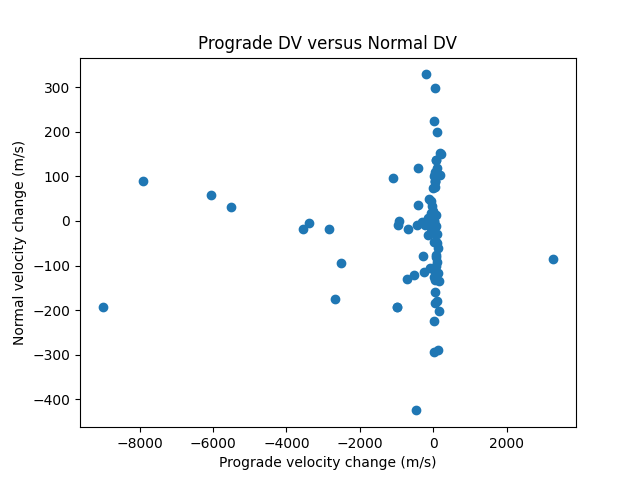
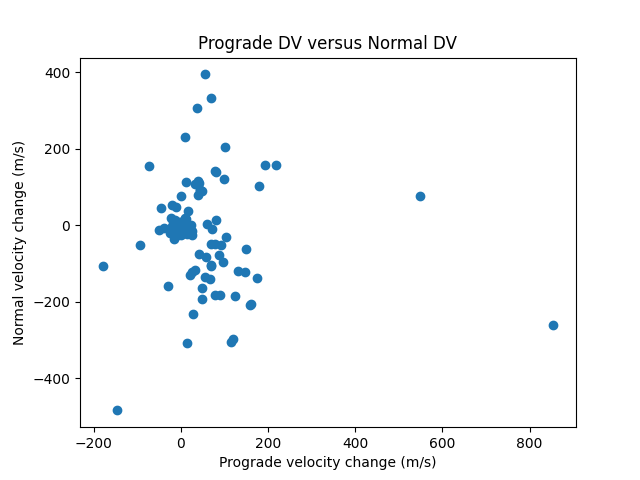
Extra analysis ignoring DG, no big change

diff --git a/mean_anomaly_corrector.py b/mean_anomaly_corrector.py
@@ -22,7 +22,7 @@ class meanSat(EarthSatellite):
 
 #Step 1: Load initial TLEs.
 print("Loading TLE's of debris objects")
-with open('tles.txt') as tlefile:
+with open('tles_noDG.txt') as tlefile:
     lines = tlefile.readlines()
     #split file into groups of 3 lines
     triplets= [lines[i:i+3] for i in range(0,len(lines),3)]
@@ -49,7 +49,7 @@ for time in time_range:
     if overall_variance < min_variance:
         min_variance = overall_variance
         time_of_min_var = time
-print(overall_variance)
+print("Variance:" + str(overall_variance))
 impact_time = time_of_min_var
 print(f"Collision found. {impact_time.utc_strftime()}")
 #Step 3: Get the known location of the target sat at that time
@@ -62,7 +62,7 @@ print(impact_site)
 for sat in objects:
     best_MA = None
     mindist = 1e20
-    for ma_val in np.linspace(0,360,1000):
+    for ma_val in np.linspace(0,360,3600):
         sat.set_MA(ma_val)
         dist = np.linalg.norm(sat.at(impact_time).position.m - impact_site)
         if dist < mindist:
@@ -81,9 +81,35 @@ for time in time_range:
     if overall_variance < min_variance:
         min_variance = overall_variance
         time_of_min_var = time
-print(overall_variance)
-print(time_of_min_var - impact_time)
-#Step 6: Output TLEs
+print("Variance:" + str(overall_variance))
+print(time_of_min_var - impact_time) #This is near 0, so time of impact doesn't change.
+#Step 6: Refine mean anomaly. TLE gives 4 digits of precision so let's go with it.
+#Previous step found best result to 0.1 degrees, so refine around that.
+for sat in objects:
+    current_MA = sat.chosen_mean_anomaly
+    best_MA = None
+    mindist = 1e20
+    for ma_val in np.linspace(current_MA -0.1,current_MA + 0.1,1000):
+        sat.set_MA(ma_val)
+        dist = np.linalg.norm(sat.at(impact_time).position.m - impact_site)
+        if dist < mindist:
+            best_MA = ma_val
+            mindist = dist
+    sat.set_MA(best_MA)
+#Step 7: Get one last variance analysis.
+for time in time_range:
+    sat_positions = [sat.at(time).position.km for sat in objects]
+    #sat_positions is now a snapshot array where every row is xyz for a sat.
+    #Get variance along each column
+    sat_positions = np.array(sat_positions)
+    variance_by_axis = sat_positions.var(axis=0)
+    #Find overall variance by pythagorean of each individual one.
+    overall_variance = sum([v**2 for v in variance_by_axis])
+    if overall_variance < min_variance:
+        min_variance = overall_variance
+        time_of_min_var = time
+print("Variance:" + str(overall_variance))
+#Step 8: Output TLEs
 with open('corrected_tles.txt','w') as f:
     for sat in objects:
         f.write(sat.name+"\n")
